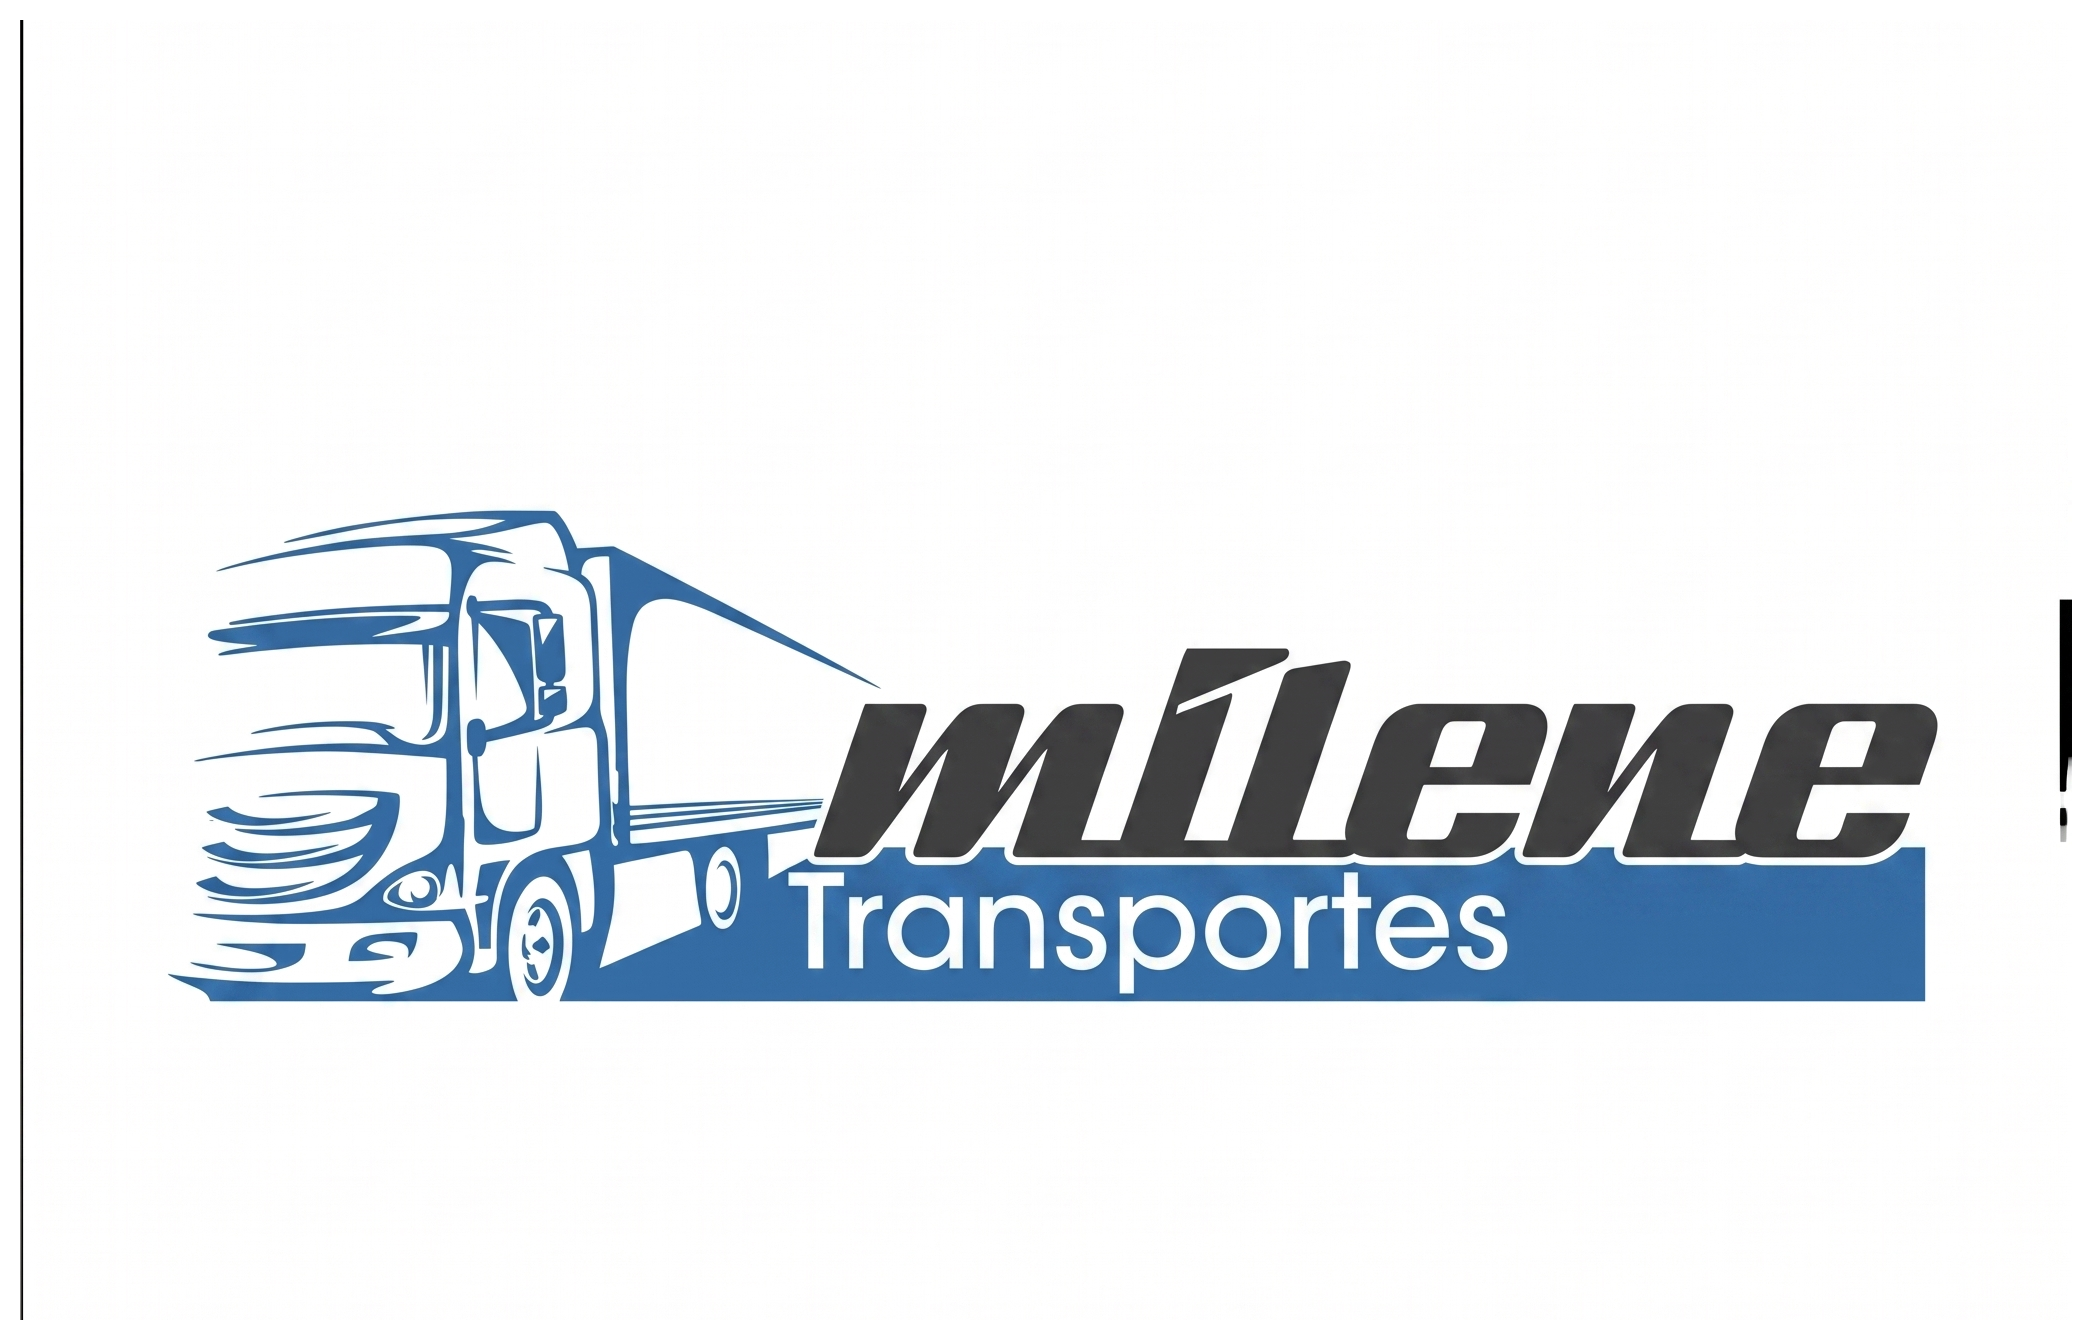
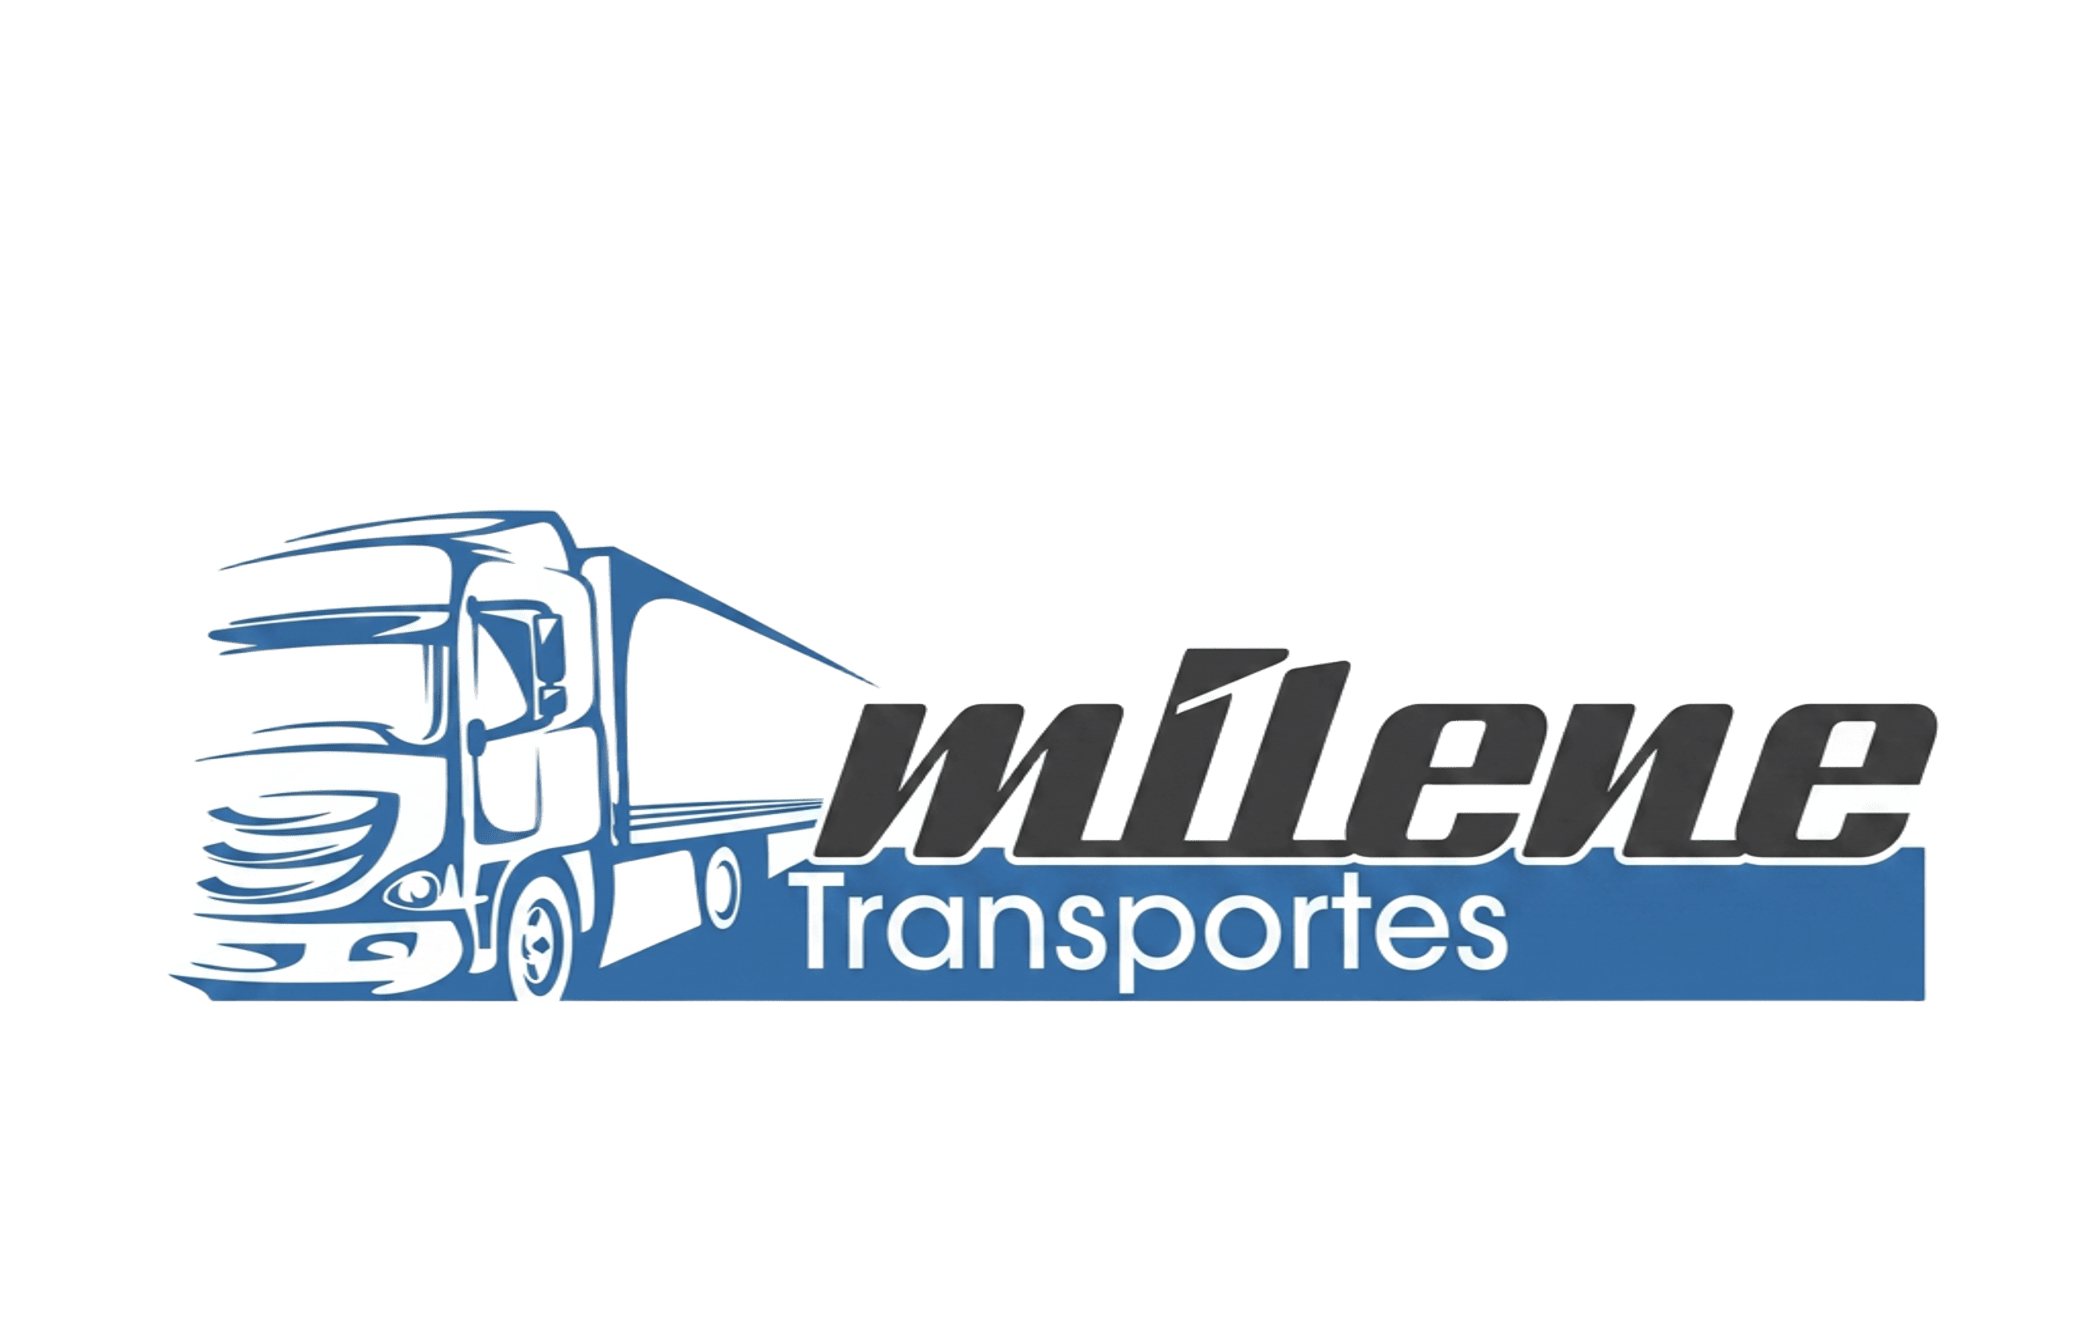
refactor: update payment methods, add developer credit to footer, and adjust image layout styling

diff --git a/index.html b/index.html
@@ -336,7 +336,7 @@
                     </button>
                     <div class="faq-content-wrapper">
                         <div class="faq-answer">
-                            <p>Facilitamos o pagamento via Pix, transferência bancária, boleto e cartões de crédito (com possibilidade de parcelamento sob consulta).</p>
+                            <p>Aceitamos pagamentos práticos via Pix, transferência bancária (TED) e boleto bancário.</p>
                         </div>
                     </div>
                 </div>
@@ -505,7 +505,7 @@
             </div>
             <div class="footer-bottom">
                 <p>&copy; 2026 Milene Transportes. Todos os direitos reservados.</p>
-                <p>Desenvolvido com excelência e dedicação.</p>
+                <p>Desenvolvido por <a href="#" style="color: var(--accent); text-decoration: none; font-weight: 600; transition: color var(--transition-fast);" onmouseover="this.style.color='#ffffff'" onmouseout="this.style.color='var(--accent)'">Marcus Eduardo</a></p>
             </div>
         </div>
     </footer>

diff --git a/src/style.css b/src/style.css
@@ -219,6 +219,7 @@ header.scrolled {
 
 header.scrolled .logo-img {
     height: 45px;
+    
 }
 
 header.scrolled .nav-links a {
@@ -1524,6 +1525,8 @@ footer {
     display: inline-block;
     margin-bottom: 1.5rem;
     box-shadow: var(--shadow-sm);
+    margin-right: 20px;
+    
 }
 
 .footer-logo-container .logo-img {
@@ -1532,6 +1535,7 @@ footer {
     display: block;
     object-fit: contain;
     object-position: center;
+    margin-left: 20px;
 }
 
 /* --- TESTIMONIALS SECTION --- */